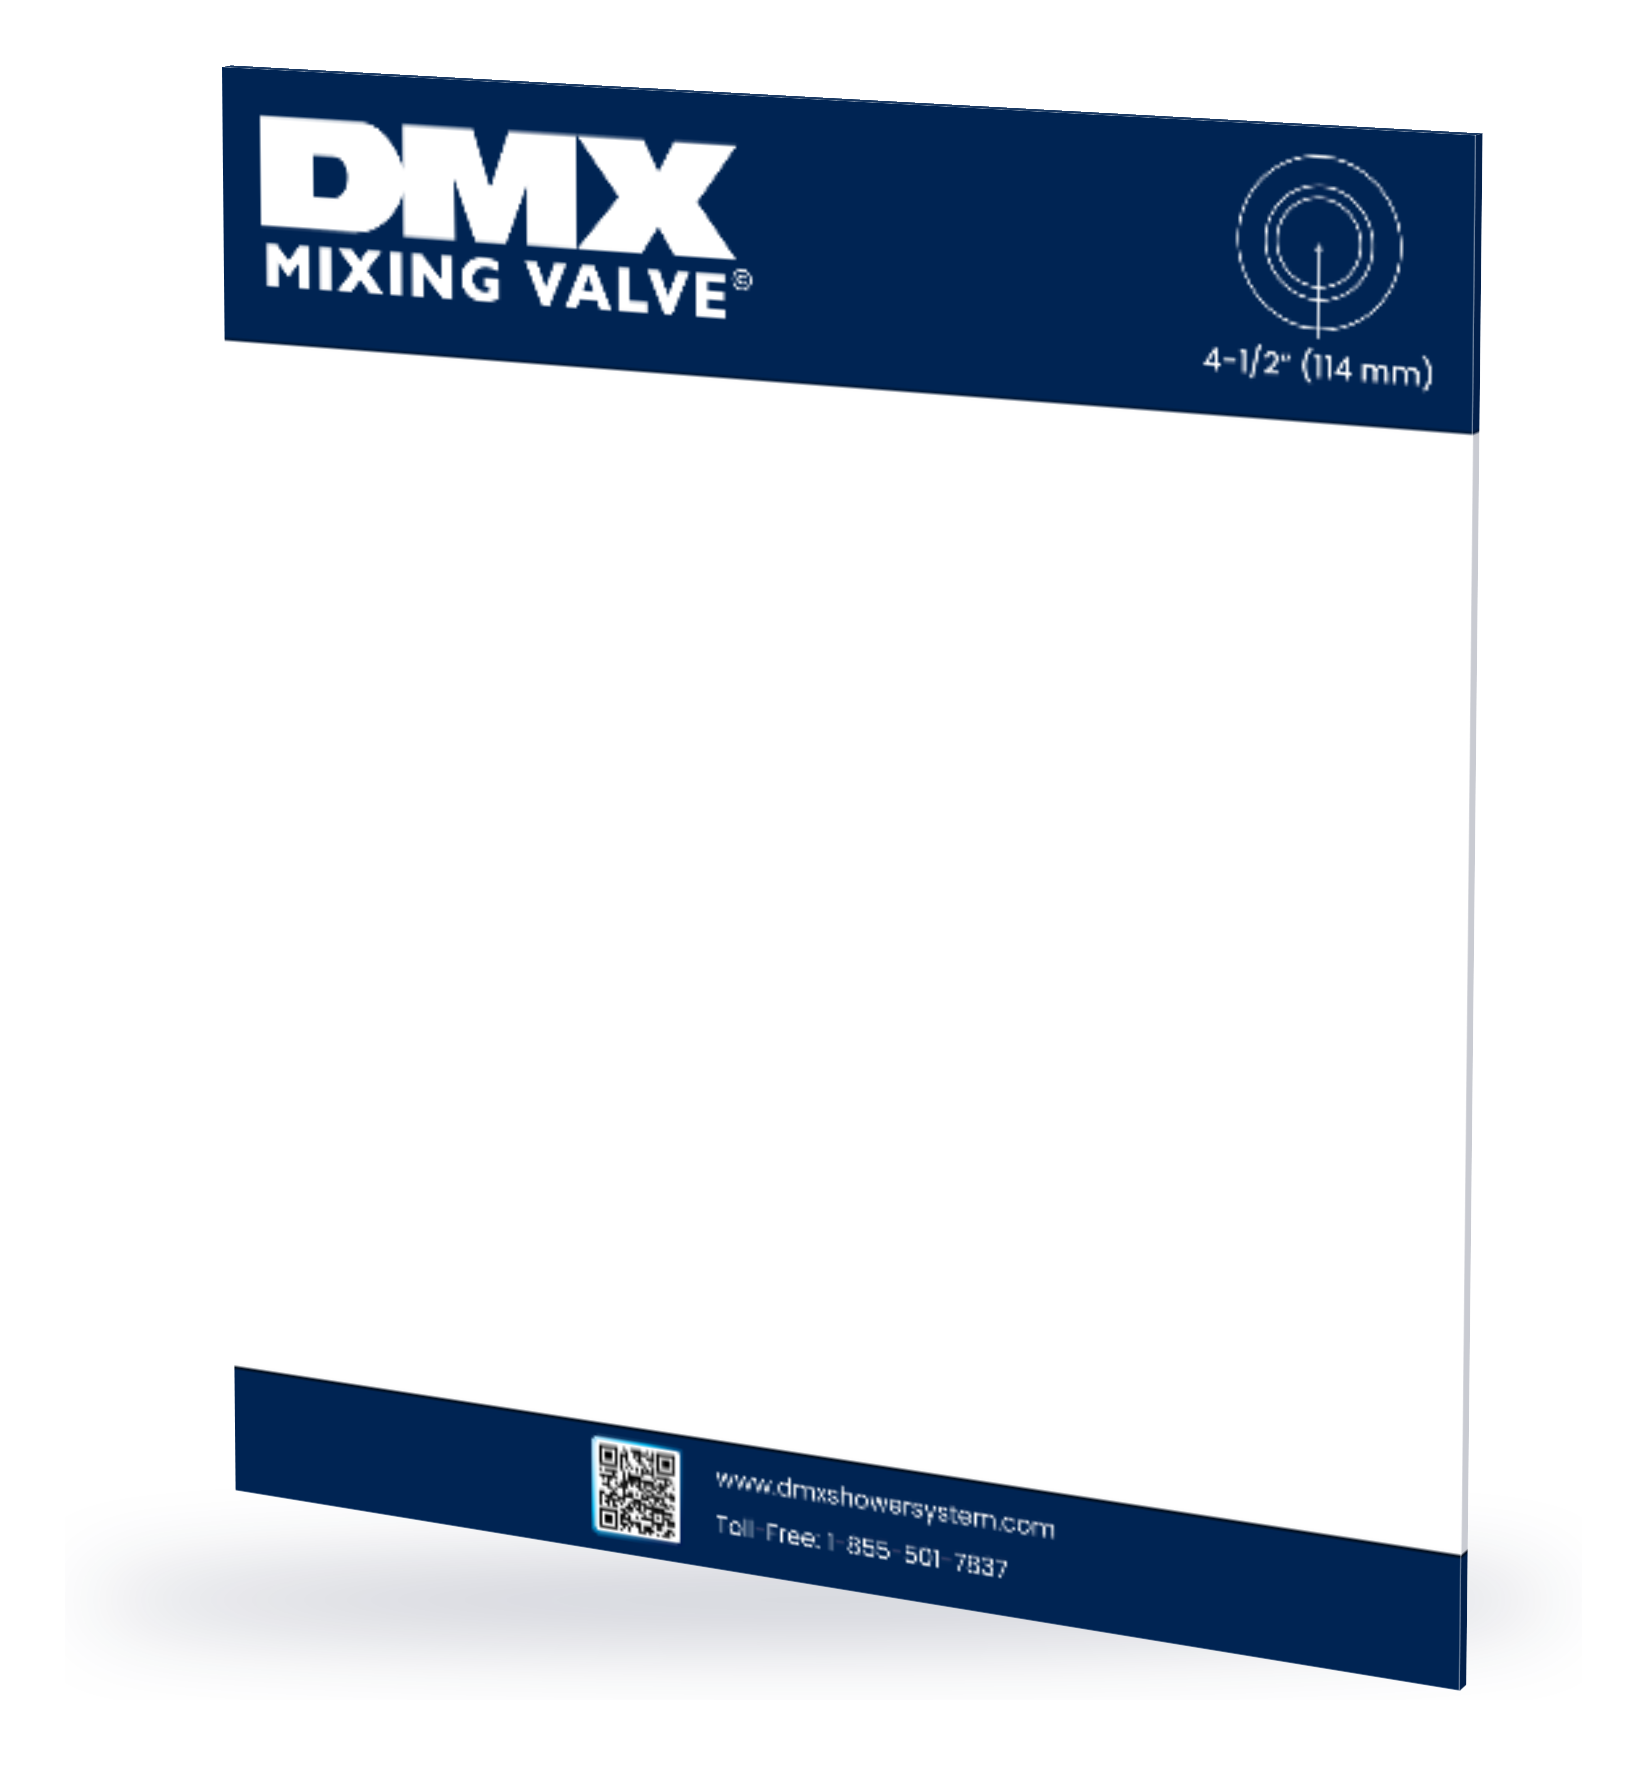
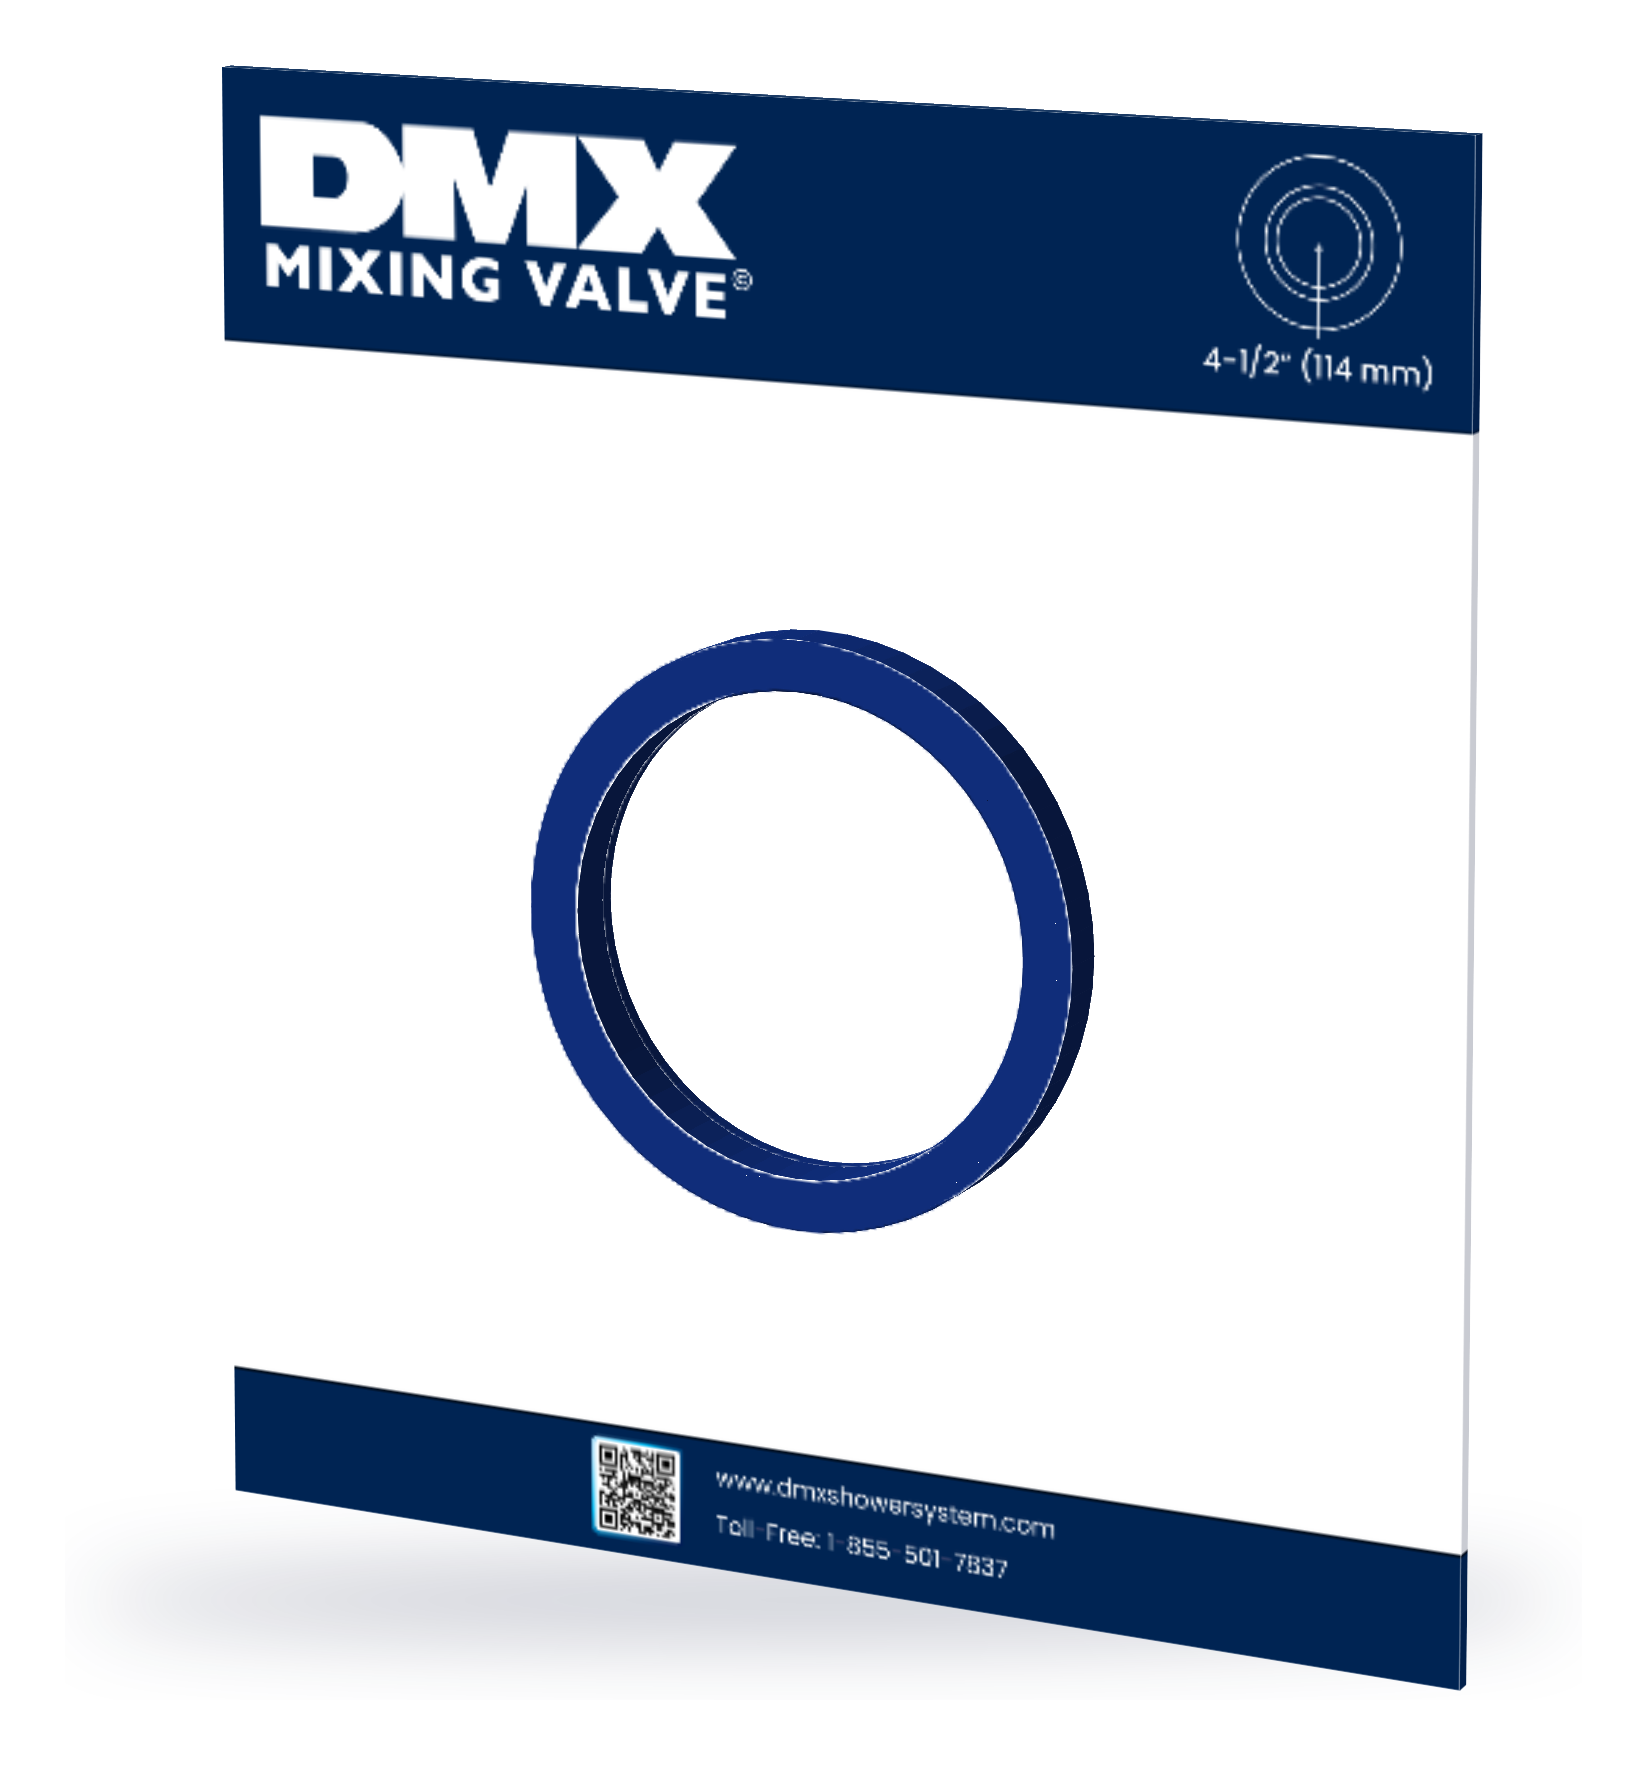
Mixing Valve: restore die-cut hole and raised collar on the new white-middle card
Claude-Session: https://claude.ai/code/session_014u32u4uSXx8qF3AWWDJLVt

Changed region(s): [[0.3097, 0.3428, 0.6812, 0.7167]]

diff --git a/index.html b/index.html
@@ -121,7 +121,7 @@
       <p class="label">View</p><div class="row views"></div>
       <p class="label">Download</p><div class="row dl"></div></div>
   </section>
-  <section class="card" data-slug="mixing-valve" data-w="3000" data-h="3300" data-d="30" data-ext="png" data-pdf="DMX-Mixing-Valve.pdf">
+  <section class="card" data-slug="mixing-valve" data-w="3000" data-h="3300" data-d="30" data-ext="png" data-ring="1500,1813,537,652,120,18,52,140" data-pdf="DMX-Mixing-Valve.pdf">
     <div class="stage" aria-label="3D mockup, DMX mixing valve seal on a die-cut card"></div>
     <div class="meta"><h2>Mixing Valve Seal · 4-1/2″ (114 mm)</h2>
       <p class="label">View</p><div class="row views"></div>
